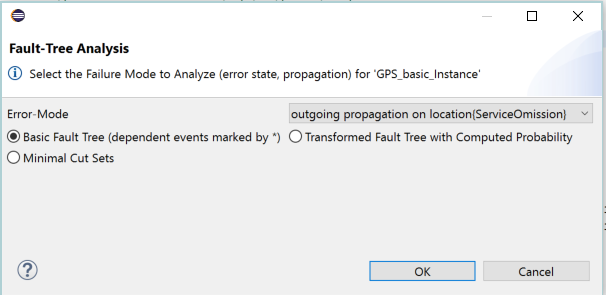
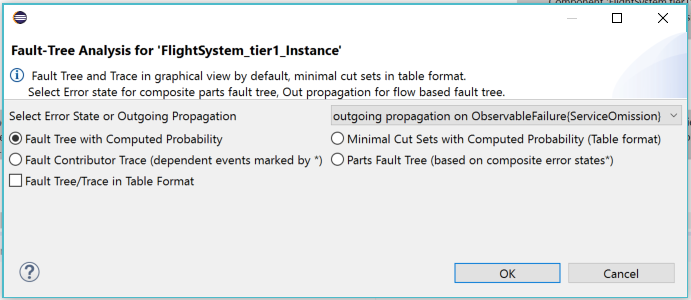
Updated figures and text.

Changed region(s): [[0.0, 0.0, 1.0, 1.0], [0.9802, 0.6712, 1.0, 0.7932]]

diff --git a/org.osate.aadl2.errormodel.faulttree.generation/src/org/osate/aadl2/errormodel/faulttree/handler/FTADialog.java b/org.osate.aadl2.errormodel.faulttree.generation/src/org/osate/aadl2/errormodel/faulttree/handler/FTADialog.java
@@ -59,7 +59,7 @@ public class FTADialog extends TitleAreaDialog {
 		container.setLayout(layout);
 
 		Label labelErrorMode = new Label(container, SWT.NONE);
-		labelErrorMode.setText("Error State or Outgoing Propagation");
+		labelErrorMode.setText("Select Error State or Outgoing Propagation");
 
 		errorMode = new Combo(container, SWT.READ_ONLY | SWT.BORDER);
 		String val[] = new String[values.size()];
@@ -69,15 +69,15 @@ public class FTADialog extends TitleAreaDialog {
 		errorMode.setItems(val);
 
 		errorMode.select(0);
-		faultTraceBox = new Button(container, SWT.RADIO);
-		faultTraceBox.setText("Fault Contributor Trace (dependent events marked by *)");
-		faultTraceBox.setSelection(false);
 		faultTreeBox = new Button(container, SWT.RADIO);
 		faultTreeBox.setText("Fault Tree with Computed Probability");
 		faultTreeBox.setSelection(true);
 		mincutsetBox = new Button(container, SWT.RADIO);
 		mincutsetBox.setText("Minimal Cut Sets with Computed Probability (Table format)");
 		mincutsetBox.setSelection(false);
+		faultTraceBox = new Button(container, SWT.RADIO);
+		faultTraceBox.setText("Fault Contributor Trace (dependent events marked by *)");
+		faultTraceBox.setSelection(false);
 		compositePartsBox = new Button(container, SWT.RADIO);
 		compositePartsBox.setText("Parts Fault Tree (based on composite error states*)");
 		compositePartsBox.setSelection(false);

diff --git a/org.osate.aadl2.errormodel.contrib/doc/safetyanalysis.md b/org.osate.aadl2.errormodel.contrib/doc/safetyanalysis.md
@@ -1,7 +1,7 @@
 # Safety Analysis with Error Model V2
 
 ## Introduction
-In this write-up, we demonstrate on an example how functional ahazard asessment (FHA), fault impact analysis (FMEA), and fault tree analysis (FTA) of a safety-critical system can be performed through the use of AADL, Error Model V2 (EMV2), and the analysis capabilities of OSATE. 
+In this write-up, we demonstrate on an example how functional ahazard asessment (FHA), fault impact analysis (FMEA like), and fault tree analysis (FTA) of a safety-critical system can be performed through the use of AADL, Error Model V2 (EMV2), and the analysis capabilities of OSATE. 
 
 In fault impact analysis the impact of fault occurrences on a system is determined through forward reasoning from an error source. One such form of inductive impact analysis is known as failure mode and effect analysis (FMEA). In OSATE it is supported by a Fault Impact Analysis capability.
 
@@ -9,9 +9,9 @@ In fault tree analysis fault occurrences are identified as contributors to a cri
 
 We will show how AADL and EMV2 can be used in this process. In terms of notation, we will demonstrate the use of EMV2 at three levels of abstraction:
 
- 1. error propagations and flows: early for FHA, forward impact analysis (FMEA) typically single source to identify impact; backward propagation to identify all potential contributors to a catastrophic or major event (in FTA format); common cause analysis to identify shared resources or functions (CMA/CCA). This level does not take into account any safety system/fault management design. The level of specification detail corresponds to that of the Fault Propagation and Transformation Calculus (FPTA) of York University.
- 2. Component error behavior specifications: identification of failure modes, Types of component failures (error events), error behavior logic to reflect redundancy of external input and redundancy of subcomponents.
- 3. Compositional error behavior in terms of subcomponent behavior to determine initial system reliability based on a parts model, and to identify the starting point for a deductive fault impact analysis of safety systems.
+ 1. error propagations and flows: early for FHA, for impact analysis (FMEA) typically single source tracing forward to identify impact; backward propagation to identify all potential contributors to a catastrophic or major event (in FTA format); common cause analysis to identify shared resources or functions (CMA/CCA). The level of specification detail corresponds to that of the Fault Propagation and Transformation Calculus (FPTA) of York University.
+ 2. Component error behavior specifications: identification of failure modes, Types of component failures (error events), error behavior logic to reflect redundancy of external input and redundancy of subcomponents. This level can take into account any safety system/fault management design such as reudnant input or parts. 
+ 3. Compositional error behavior (failure modes) in terms of subcomponent error behavior to determine initial system reliability based on a parts model. It can be used to generate a composite parts fault tree.
 
 ##The Example Model
 
@@ -112,40 +112,59 @@ Additional labels may be used for intermediate elements of the impact trace to i
 
 Fault tree analysis operates with the same AADL model annotated with EMV2. Again users can specify the model at different levels of detail. Users can specify error propagations and error flows. Users may also specify component error behavior, in which case it is interpreted instead of the error flows. Finally, users can declare composite error behavior, where an error behavior state of a system is declared in terms of error behavior states of its subsystem. 
 
-Fault tree analysis is invoked on an instance model through the main menu, context, menu, or tool bar. The main menu is shown below.
+### Fault Tree Analysis Invocation and Results
+
+Fault tree analysis is invoked on an instance model through the main menu, context, menu, or tool bar. By default the top level component instance becomes the root of the fault tree analysis. The main menu is shown below.
 ![FTA Invocation](images/FTAInvocation.png "FTA Invocation")
+> Note that users select a component instance other than the root component instance (system instance) as starting point of fault tree analysis.  
 
-Fault tree analysis produces a propagation graph from the AADL/EMV2 model. This graph reflects common cause elements (dependent events). Users can select the representation of interest resulting from this graph as well as the error behavior state or outgoing error propagation of the top-level system as root of the faul tree.
+Fault tree analysis uses an error state or outgoing error propagation of the selected component instance as starting point. The analysis generates a fault propagation graph based on error flows, connections, and bindings. The analysis produces one of several fault tree respresentations by tracing backwards along the propagation graph or based on composite error state declarations.  These fault tree representations are stored in an XMI format and shown to the user in graphical or table format. The figure below shows the dialog box through which the user can select an error state or outgoing propagation as well as the fault tree representation. 
 ![FTA Dialog](images/FTADialog.png "FTA Dialog")
-The three representations are:
-* Basic Fault Tree: A fault tree with dependent events marked by "\*". Such a fault tree most closely reflects the original paths through the system. The fault tree is stored in an XMI representation for fault graphs and is made available in a graphical view.
-* Transformed Fault Tree: Transformations applied to the basic fault tree to move common events "up the tree". The resultant fault tree does not have dependent events and is used for calculating occurrence probabilities. The fault tree is stored in an XMI representation for fault graphs and is made available in a graphical view.
-* Minimal cut sets: Minimal cut sets are generated from the graph. Occurrence probability is calculated from it as well. The minimal caut sets are stored in an XMI representation for fault graphs and is made available in a tabular view.
+The four representations are:
+* Fault tree with computed occurrence probability: A fault tree based on backward trace of the propagation graph with contributors shown as fault tree events. The fault tree is compacted to remove intermediate steps of the trace to focus on actual contributors, such as error events, error sources, or external effects propagated into the system of interest. Occurrence probability is calculated from occurrence propability values of the leaf events in the fault tree. Dependent (common) events are minimized through fault tree transformation. By default the resulting fault tree is shown graphically.
+* Minimal cut sets with computed occurrence probability: Minimal cut sets of contributors are generated from the propagation graph and occurrence probability is calculated from assigned occurrence propability values of the . The minimal caut sets shown in table format.
+* Fault Contributor Trace: A fault tree is generated that shows the full backward trace to contributors. This cncludes intermediate steps such as outgoing and incoming error proagations, and error states. Dependent (common) fault tree events and event subtrees are identified by a "*". By default the resulting fault tree is shown graphically.
+* Parts Fault Tree: A composite fault tree of system parts recursively identified by composite error state declarations. In this case the propagation graph representing error flow is not taken into account. Occurrence probability is computed from the occurrence probability values assigned to error states of the leaf components. By default the resulting fault tree is shown graphically.
+> Users can choose to have the fault tree, fault trace, and parts fault tree shown in table format instead of the default graphical view by checking the appropriate item in teh dialog box.
 
-The stored fault tree representations are kept in the **FTA** folder under the **reports** folder (see earlier figure).
+### Fault Tree Analysis Results
+
+The stored fault tree representations are kept in the **FTA** folder under the **reports** folder. They are stored in an XMI format based on a FaultTree.ecore specification (for details see https://github.com/osate/ErrorModelV2/tree/develop/org.osate.aadl2.errormodel.faulttree/model).
+![FTA Reports](images/FTAReports.png "FTA Reports")
 We support the following fault tree elements:
 Events: Basic ![](images/BasicEvent.gif), External![](images/ExternalEvent.gif), Undeveloped![](images/UndevelopedEvent.gif), and Intermediate.
 Basic events represent error sources or error events within the system, External events represent Events that come from outside the system of interest, and Undeveloped events represent incoming propagations of binding points without bindings or incoming propagations of features that are not connected.
 Intermediate events represent composite events with logic gates. We have the following gates: OR![](images/OrOp.gif), AND![](images/AndOp.gif), XOR![](images/XorOp.gif), PriorityAnd![](images/PAndOp.gif), KOrMore![](images/OrMoreOp.gif), KOf, KOrLess.
 > Note that **Kof(1)** is the same as **Xor** of single elements, and **KOrMore(1)** is the same as **Or** of single elements.
 
-###State-based Compositional Fault Tree Generation
+Eclipse Sirius is automatically invoked to visualize the fault trees graphically and in table format. An example graphical presentation of a fault tree 
 
-One use early in the process is a state-based compositional faul tree generation. In this case users define a parts model, i.e., identify the parts of each system, and specify how the error states of the parts relate to the error states of the enclosing system through composite state declarations. Note that user can define such a model with error state machines at multiple level of a system architecture. Users also do not have to specify an error state machine for each level. Instead a higher level state can be expressed in terms of subsystems more than one level down. 
+
+
+###Error State-based Composite Parts Fault Tree Generation
+
+One use early in the process is a composite parts fault tree generation. In this case users define a parts model, i.e., identify the parts of each system, and specify how the error states of the parts relate to the error states of the enclosing system through composite state declarations. Note that user can define such a model with error state machines at multiple level of a system architecture. Users also do not have to specify an error state machine for each level. Instead a higher level state can be expressed in terms of subsystems more than one level down. 
 >This is similar to specifying reliability block diagrams in a compositional manner, where the logic of the composite error behavior state corresponds to the logic represented graphically by parallel and serial blocks.
 
-An example of a composite error behavior state declaration is shown here.
+An example of a composite error behavior state declaration is shown here. 
+> In EMV2 the **1 ormore** operator is used to indicate **inclusive oOr**, while the EMV2 **Or** operator represents **exclusive or**.
+
 ![Composite Error Behavior](images/compositeerrorbehavior.png "Composite Error Behavior")
 
-In our example, the package *GPSSystem* contains the top level GPS system with a number of implementations with different levels of detail and configurations. The parts model is represented by the system implementation *gps.parts_SingleSensor*. In this case, the EMFTA constructs a complete system fault tree form fault tree fragments based on the composite state declarations for a user-selected error state of the top-level system.
+In our example, the package *GPSSystem* contains the top level GPS system with a number of implementations with different levels of detail and configurations. The parts model is represented by the system implementation *gps.parts_SingleSensor*. In this case, the fault tree analysis constructs a complete system fault tree from fault tree fragments based on the composite state declarations for a user-selected error state of the top-level system.
 
-The resulting fault tree can then be analyzed for cut sets, i.e., shortest path to cause the root node of the tree to fail, and occurrence probability based on occurrence probabilities of the leaf nodes, i.e., the error states of the leaf components with EMV2 subclauses. 
-![GPS Composite FTA](images/compositefta-gps.png "GPS Composite FTA")
+Occurrence probability of the system error state (failure mode) is computed from the occurrence probability values assigned to the error states of the leaf nodes. The figure below shows the assignment of the occurrence probability value to the power supply.
 
-Probabilistic state-based EMFTA is performed by using occurrence distribution specifications on error states. This allows for the use of an error state machine without having a full specification of error transitions and outgoing propagation conditions. If an error state machine has been included with error events and transitions, then the state probability may be derived from the error event probabilities and the transition condition logic.
+![Occurrence Assignment](images/Powersupplyoccurrence.png "Occurrence Assignment")
+![Fsil Stop State](images/FailStopState.png "Fsil Stop State")
+
+> Occurrence probability is computed from the occurrence probability on error states of the parts. This allows you to use of an error state machine with states only, i.e., without specification of error events and transitions. If an error state machine has been included with error events and transitions, and you want the error event included in the generated fault tree, then use the propagation graph based fault tree generation.
+
+The resulting graphical fault tree looks like this.
+![GPS Composite FTA](images/fta-gps1sensor.png "GPS Composite FTA")
 
 ### Fault Tree Derived from Backward Trace of Propagation Graph
-In this case, the propagation paths in the propagation graph are traversed backward to construct a fault tree representation. In other words, propagation paths along connections, bindings, and user declared propagation paths, as well as error flows from incoming propagations to outgoing propagations are interpreted. If component error behavior in terms of error behavior state machines with error events, states, transitions, and outgoing ppropagation conditions are presents, they are interpreted resulting in a higher fidelity propagation graph and fault tree.
+In this case, the propagation paths in the propagaation graph are traversed backward to construct a fault tree representation. In other words, propagation paths along connections, bindings, and user declared propagation paths, as well as error flows from incoming propagations to outgoing propagations are interpreted. If component error behavior in terms of error behavior state machines with error events, states, transitions, and outgoing ppropagation conditions are presents, they are interpreted resulting in a higher fidelity propagation graph and fault tree.
 
 In its simplest form the analysis traces back from a user identified outgoing error propagation and error type of interest for the top-level system. In our example, this is represented by the top-level system implementation gps.basic.
 
